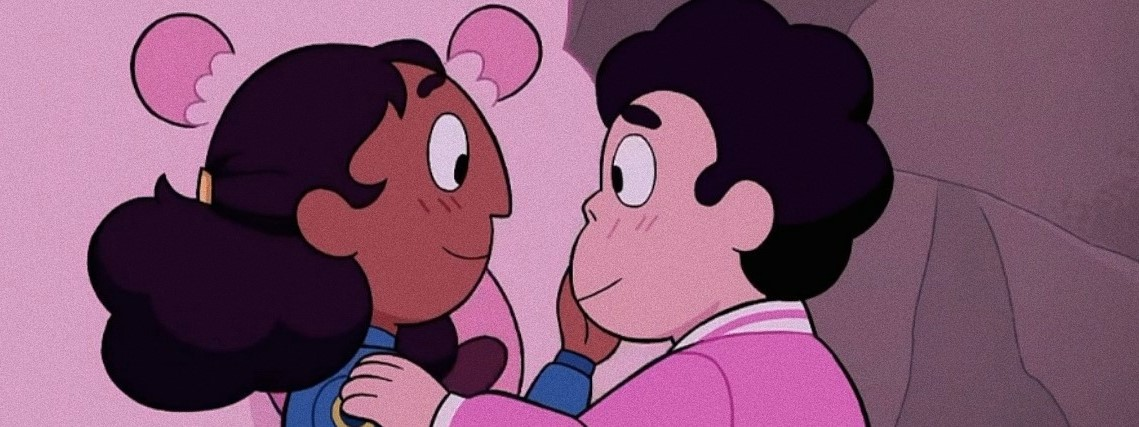
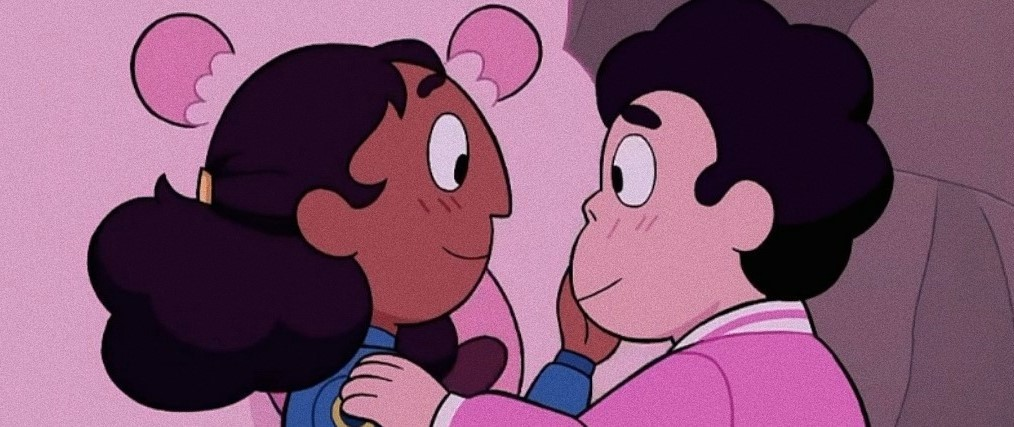
Project Finished

diff --git a/index.html b/index.html
@@ -6,8 +6,7 @@
     <link rel="icon" href="./img/logo.png">
     <link rel="preconnect" href="https://fonts.googleapis.com">
     <link rel="preconnect" href="https://fonts.gstatic.com" crossorigin>
-    <link href="https://fonts.googleapis.com/css2?family=Architects+Daughter&family=Lato:wght@300&display=swap"
-        rel="stylesheet">
+    <link href="https://fonts.googleapis.com/css2?family=Architects+Daughter&family=Lato:wght@300&display=swap" rel="stylesheet">
     <link rel="stylesheet" href="./style.css">
     <title>Photo Gallery - Steven Universe</title>
 </head>
@@ -21,7 +20,8 @@
     </header>
 
     <main>
-        <div class="faixa__principal">
+        <div class="faixa__principal center">
+
             <div class="img__principal" alt="imgp">
                 <div class="faixa__informacoes">
                     <div class="informacoes">
@@ -65,7 +65,7 @@
             </div>
         </div>
 
-        <div class="faixa__secundaria">
+        <div class="faixa__secundaria center">
             <div class="img5" alt="img">
                 <div class="faixa__informacoes">
                     <div class="informacoes">

diff --git a/style.css b/style.css
@@ -58,14 +58,17 @@ main {
 }
 
 
-
 /* IMAGEM DA ESQUERDA */
 
+.center > div{
+    background-position: center;
+}
 
 .img__principal {
     grid-area: principal;
     background-image: url(./img/img10_su.jpg);
     background-size: cover;
+    ;
     display: grid;
     place-items: end start;
 }
@@ -252,3 +255,28 @@ footer {
     transform: scale(1.1);
 }
 
+
+/* RESPONSIVIDADE */
+
+
+@media (max-width:768px){
+
+    body{
+        margin: 0px 0px 0px 0px;
+    }
+
+    main{
+        display: flex;
+        flex-direction: column;
+    }
+
+    img[alt~=imgp]{
+        width: 100%;
+        height: 33vh;
+    }
+
+    img[alt~=img]{
+        width: 100%;
+        height: 33vh;
+    }
+}
